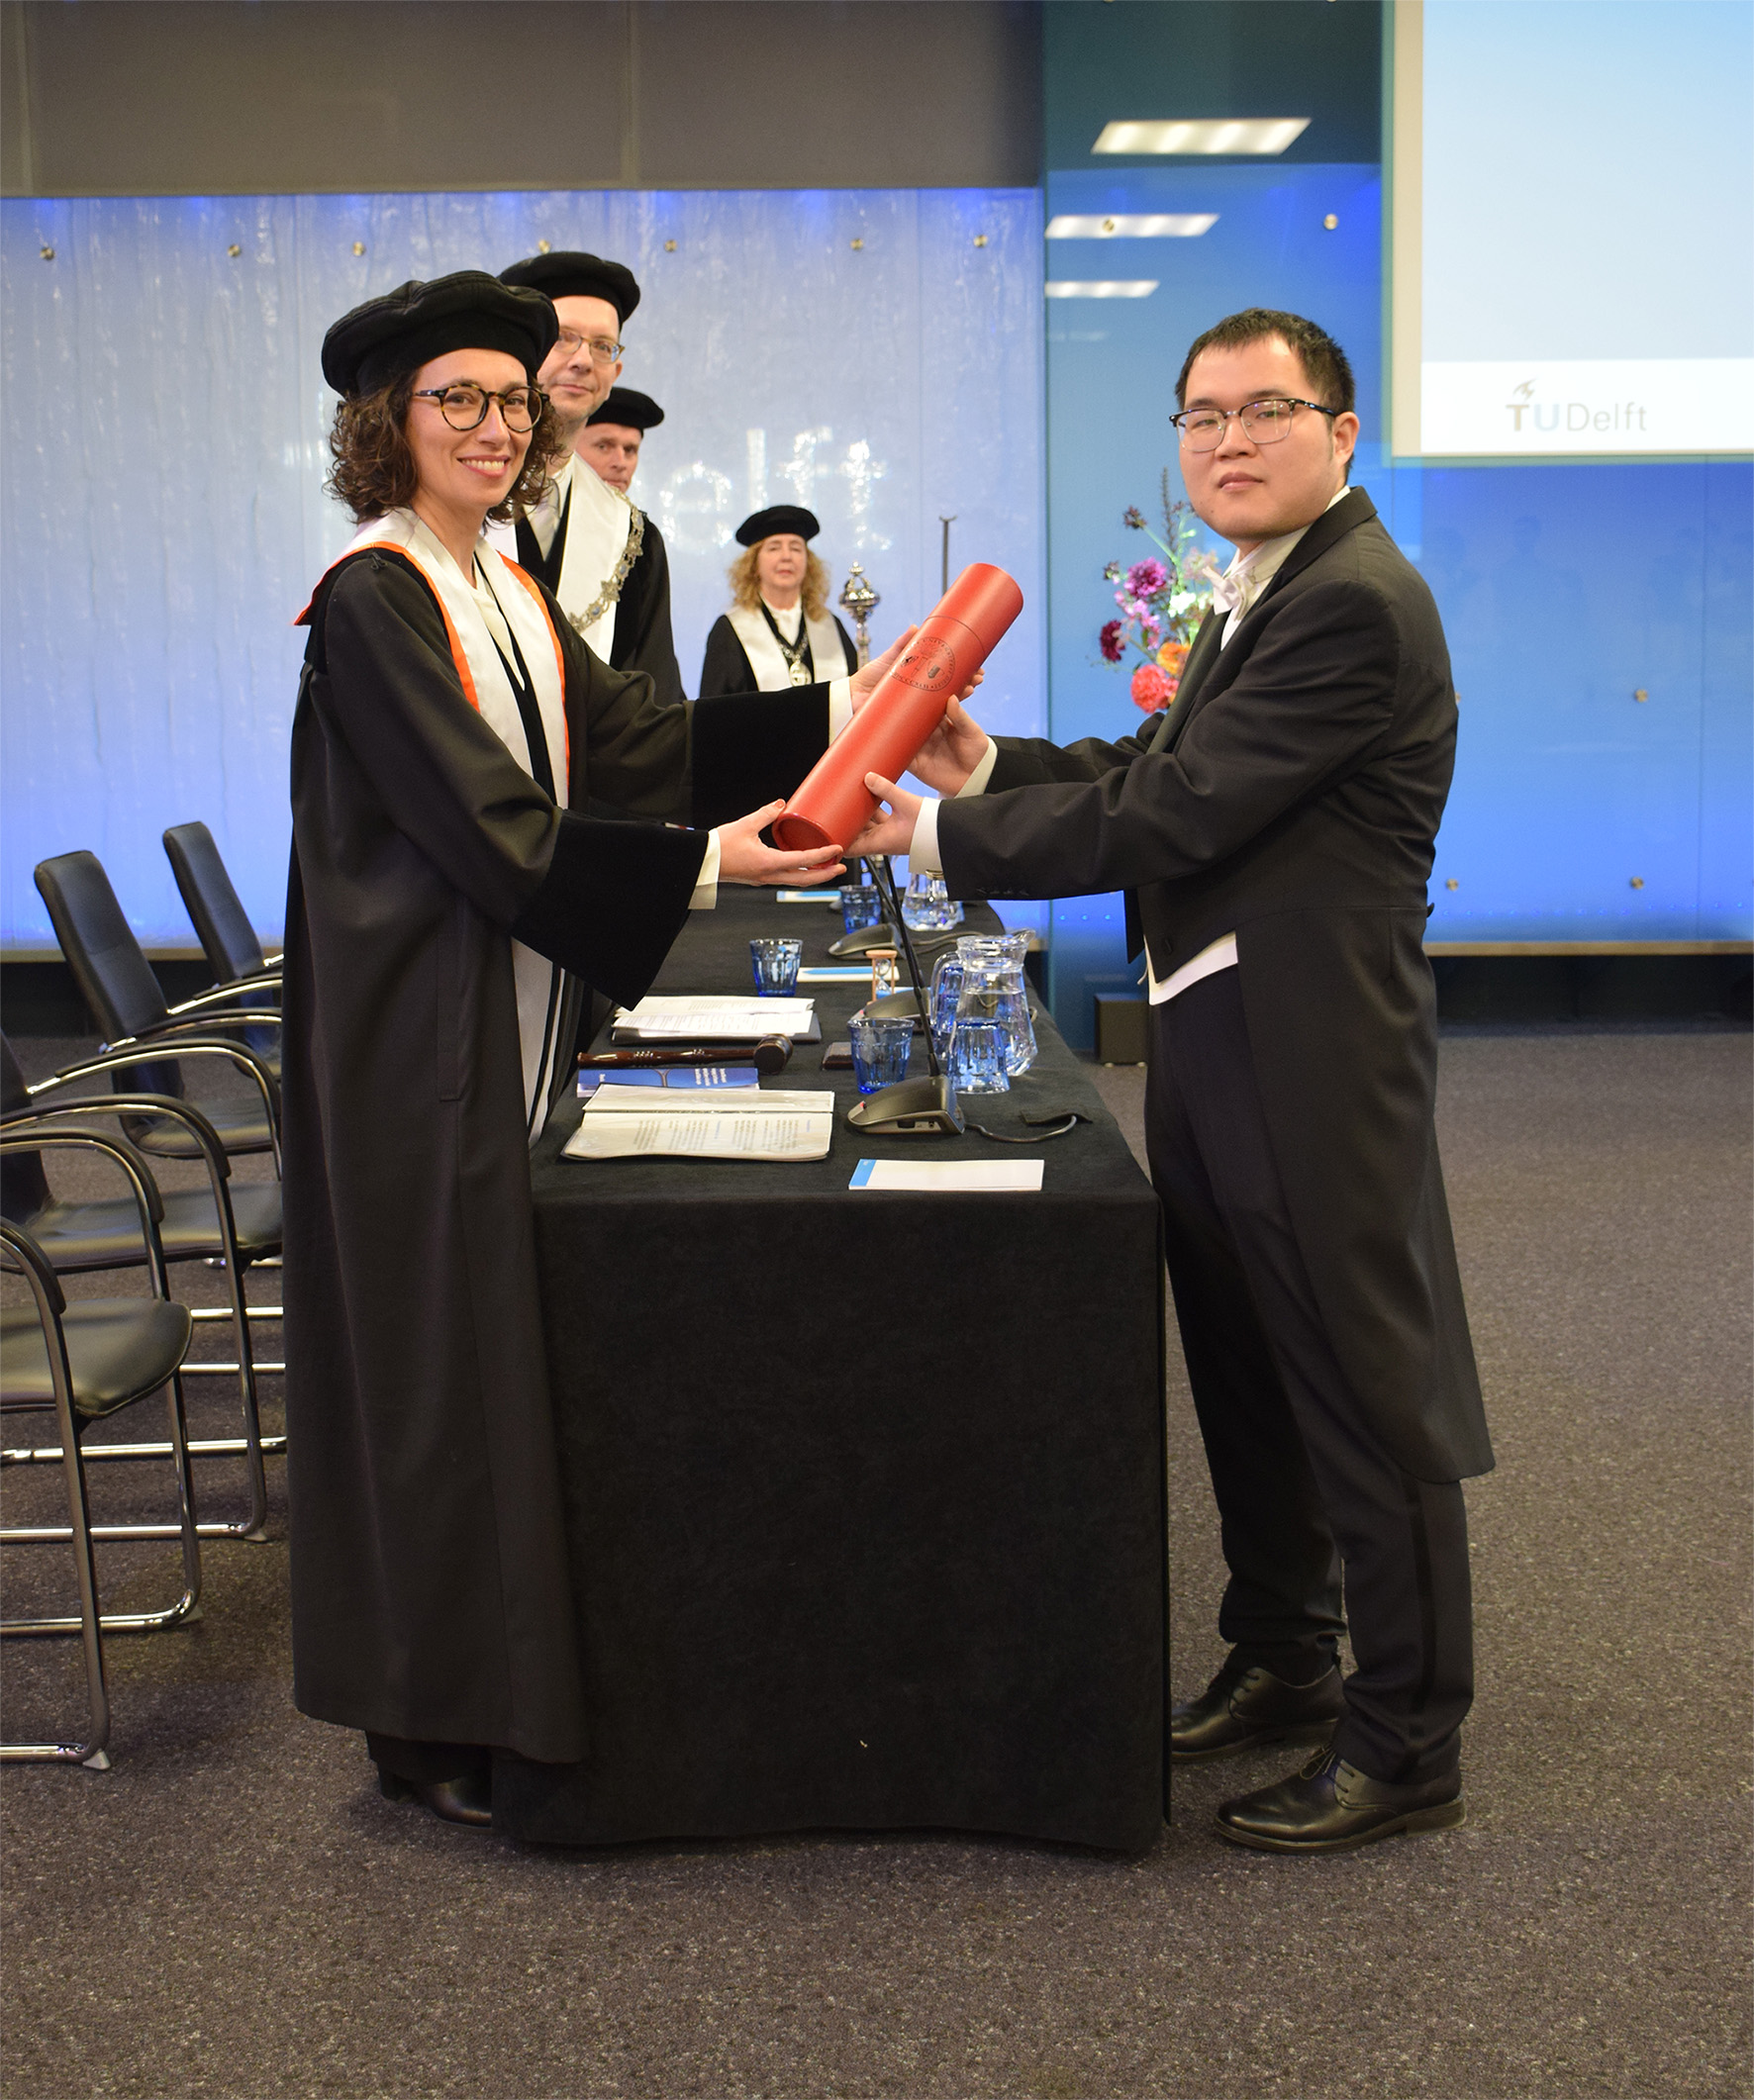
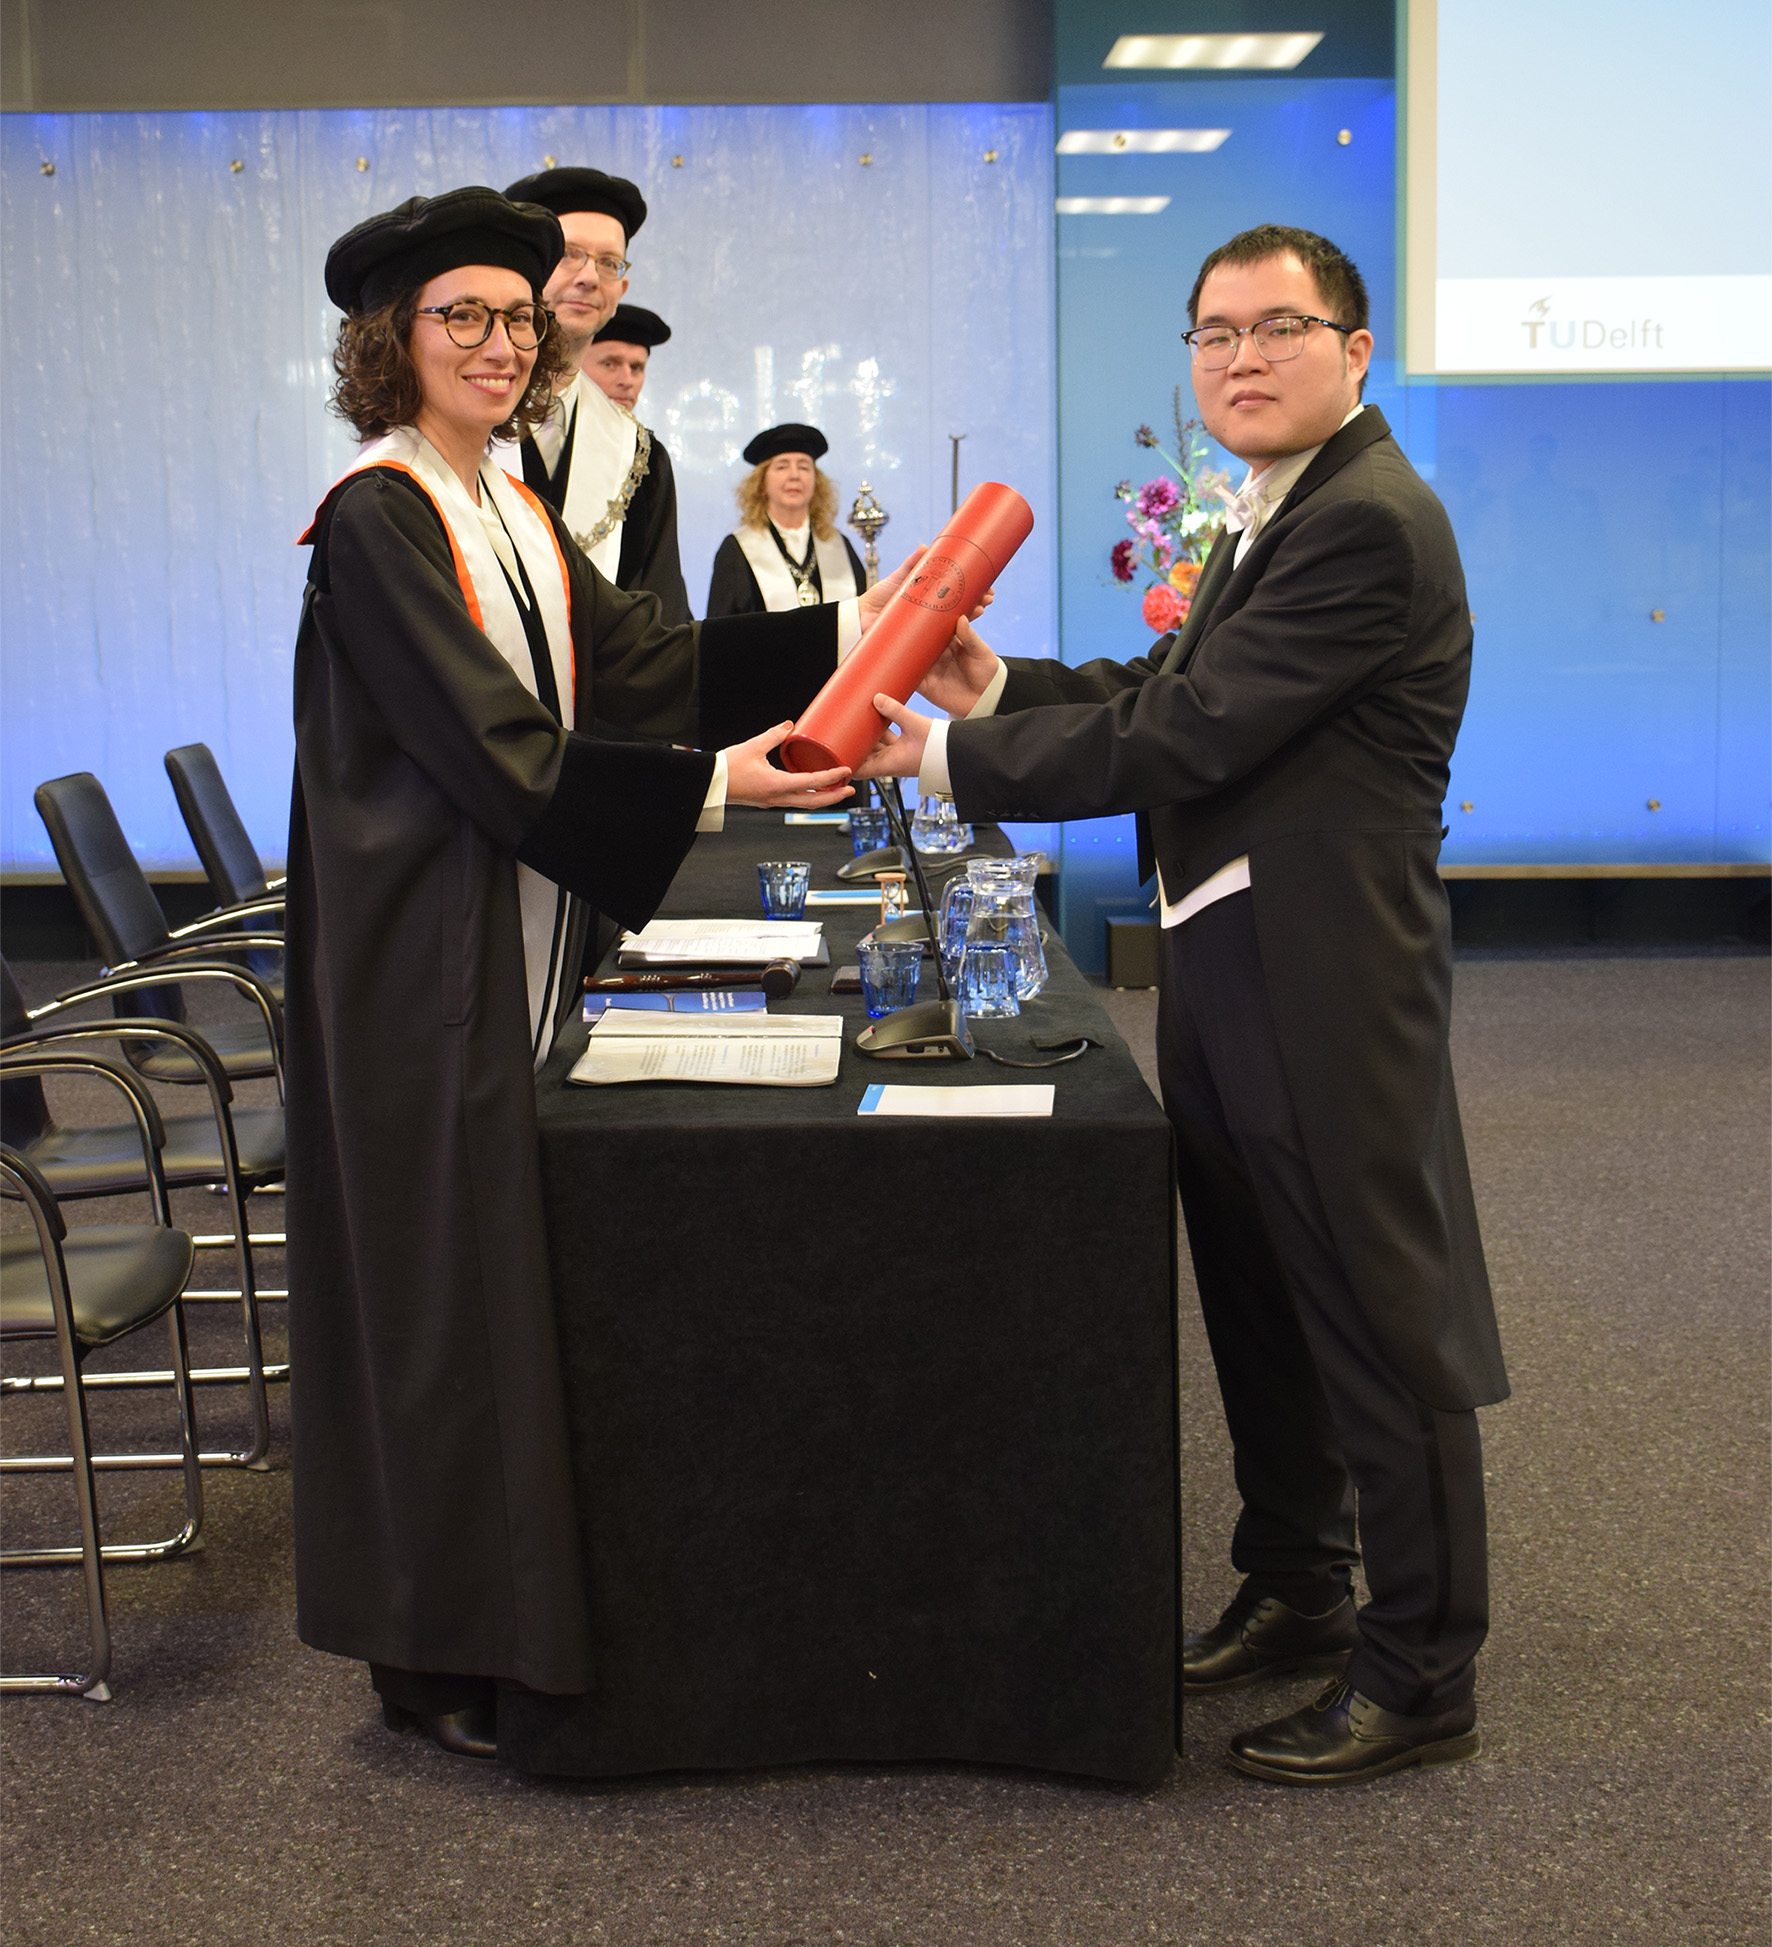
event

diff --git a/content/event/2026DefensePhDAmine/index.md b/content/event/2026DefensePhDAmine/index.md
@@ -13,7 +13,7 @@ abstract: ''
 # Talk start and end times.
 #   End time can optionally be hidden by prefixing the line with `#`.
 date: '2026-04-14T09:00:00Z'
-date_end: '2026-04-14T14:00:00Z'
+# date_end: '2026-04-14T14:00:00Z'
 all_day: true
 
 # Schedule page publish date (NOT talk date).